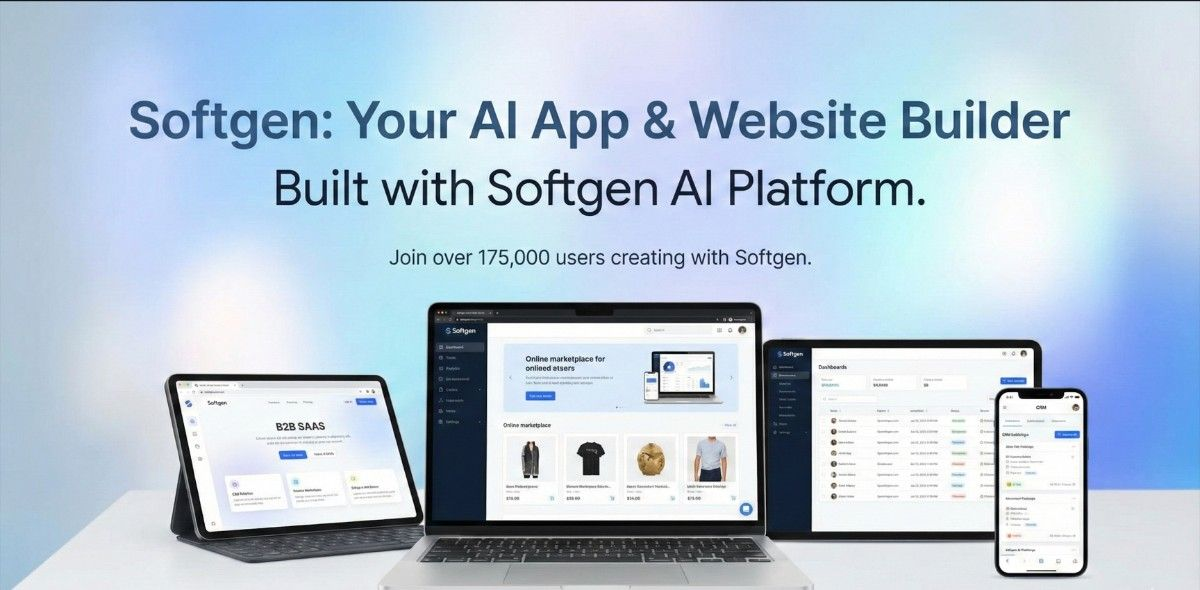
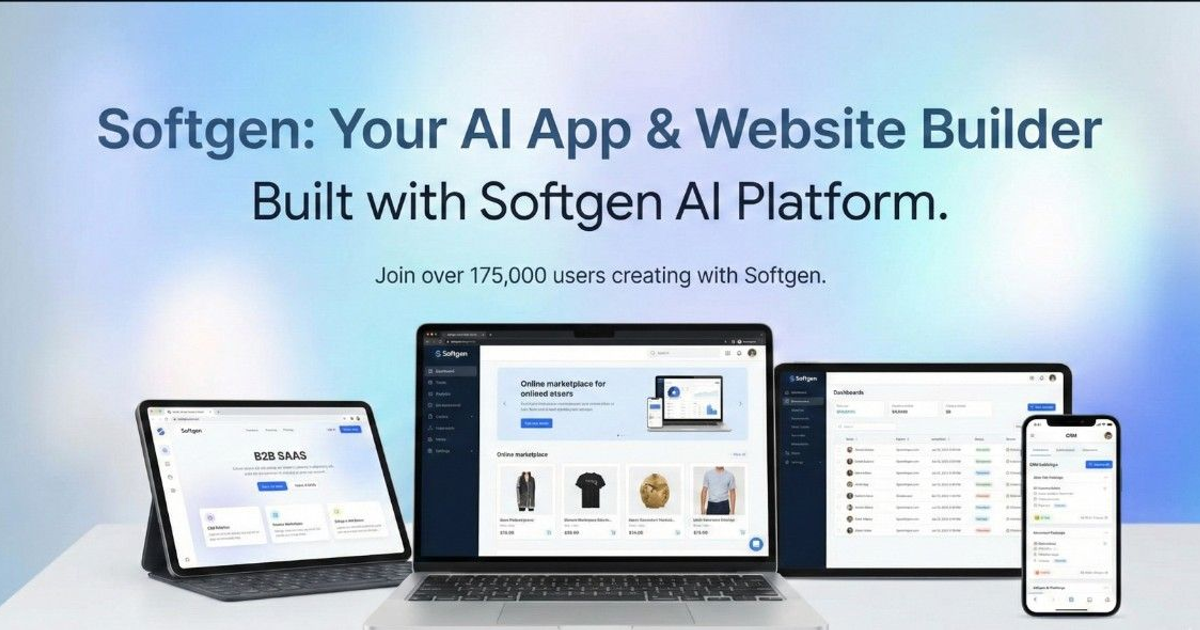
fix(build): resolve shell escaping issues in script execution

diff --git a/scripts/fix-og-image.js b/scripts/fix-og-image.js
@@ -1,0 +1,18 @@
+const sharp = require("sharp");
+
+sharp("public/og-image.png")
+  .resize(1200, 630, { fit: "cover" })
+  .png()
+  .toBuffer()
+  .then((buffer) => {
+    const fs = require("fs");
+    fs.writeFileSync("public/og-image.png", buffer);
+    return sharp("public/og-image.png").metadata();
+  })
+  .then((m) => {
+    console.log("og-image.png:", m.width + "x" + m.height, m.format);
+  })
+  .catch((e) => {
+    console.error("ERROR", e);
+    process.exit(1);
+  });
